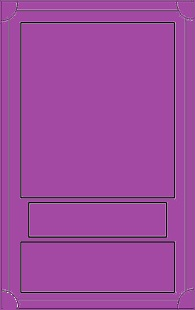
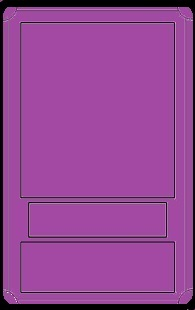
cards and cardpane

Changed region(s): [[0.0, 0.0, 1.0, 1.0]]

diff --git a/OrcMathGUI/src/maple_gacha/CardPane.java b/OrcMathGUI/src/maple_gacha/CardPane.java
@@ -7,6 +7,7 @@ import java.util.List;
 import guiTeacher.components.Action;
 import guiTeacher.components.Graphic;
 import guiTeacher.components.Pane;
+import guiTeacher.components.TextArea;
 import guiTeacher.interfaces.Clickable;
 import guiTeacher.interfaces.FocusController;
 import guiTeacher.interfaces.Visible;
@@ -17,6 +18,8 @@ public class CardPane extends Pane implements Runnable {
 	private Hero hero;
 	private Graphic bg;
 	private Graphic charImg;
+	private TextArea name;
+	private TextArea grade;
 	private Action hoverAction;
 	
 	public CardPane(FocusController focusController, int x, int y, int width, int height,Hero g) {
@@ -34,6 +37,9 @@ public class CardPane extends Pane implements Runnable {
 		viewObjects.add(bg);
 		charImg = new Graphic(60,50,2,2, "resources/cardPics/Agrade.png");
 		viewObjects.add(charImg);
+		
+		name = new TextArea()
+		
 		update();
 		
 	}
@@ -48,6 +54,7 @@ public class CardPane extends Pane implements Runnable {
 	
 	@Override
 	public void run() {
+		
 		charImg.loadImages(hero.getImage(), 100, 100);
 		if (hero.getRank().equals("A") ) {
 			bg.loadImages("resources/cardPics/Agrade.png", getWidth(), getHeight());

diff --git a/OrcMathGUI/src/maple_gacha/CharacterScreen.java b/OrcMathGUI/src/maple_gacha/CharacterScreen.java
@@ -107,7 +107,8 @@ public class CharacterScreen extends FullFunctionScreen {
 		clickG.add(c2);
 		clickG.add(c3);
 		for(int i = 0;i<3;i++) {
-			clickG.set(i, new CardPane(this,63+225*i,586,206,319,null));
+			clickG.set(i, new CardPane(this,66
+					+225*i,586,198,315,null));
 			int number = i;
 			clickG.get(i).setAction(new Action() {
 			
@@ -141,7 +142,7 @@ public class CharacterScreen extends FullFunctionScreen {
 		}
 		
 		for(int i = 0;i<5;i++) {
-			clickList.set(i, new CardPane(this,133+205*i,142,206,319,MainGame.team.get(i)));
+			clickList.set(i, new CardPane(this,133+205*i,142,195,310,MainGame.team.get(i)));
 			clickList.get(i).setHero(MainGame.team.get(i));
 			clickList.get(i).run();
 			clickList.get(i).update();
